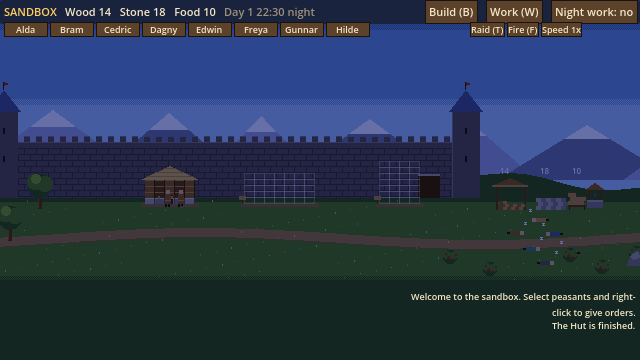
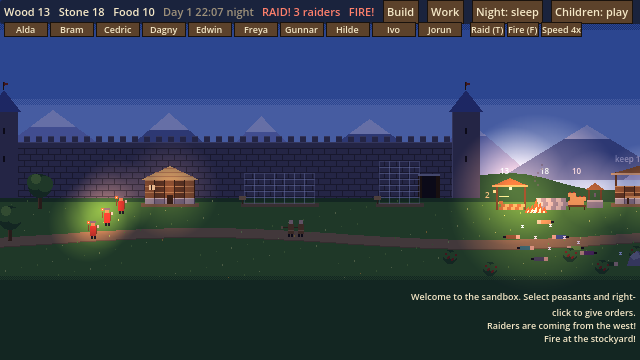
Sandbox: warm light at night from fires, torches, lanterns and windows; a tidier top bar; steadier tests
Claude-Session: https://claude.ai/code/session_01KRfBmN2ZEbarco8VY7eoa6

diff --git a/sandbox/README.md b/sandbox/README.md
@@ -48,6 +48,9 @@ Open `sandbox/sandbox.tscn` in Godot and press **F6** (Run Current Scene).
      stockyard, or to sleep (in a free Hut bed, faster, else on the ground).
      Orders and drafting come first, as in RimWorld, but at 100 they work slower.
      Food comes from berry bushes, picked by the **Forager**.
+   - **Light at night** (art direction): only warm light shows in the dark: fires,
+     raiders' torches, lanterns at the stockyard and the well, the lit window of a
+     finished Hut and the Sawmill's lamp (`sb_light.gd`).
    - **Day and night:** a day lasts 4 minutes (the clock is in the top bar). At
      night, peasants left to themselves go to bed. The **Night work** policy (top
      bar) keeps them working through the night instead: 15% slower in the dark,
@@ -155,6 +158,7 @@ dotted line to what they are working on (gold for an order, white for free will)
 - `sb_site.gd`, `sb_tree.gd`, `sb_rock.gd`, `sb_bush.gd`, `sb_deer.gd`, `sb_item.gd`, `sb_fire.gd`,
   `sb_raider.gd`, `sb_stockyard.gd`, `sb_well.gd`: the things in the world.
 - `sb_stranger.gd`: the hooded man (looks only).
+- `sb_light.gd`: warm lights for the night.
 - `sb_backdrop.gd`: sky, mountains, the castle wall, the ground band and path.
 - `sb_hud.gd`: top bar, the bar of peasants, the panel for the selected, messages.
 - `tests/run_tests.sh`: loads the map once to catch script errors, then runs
